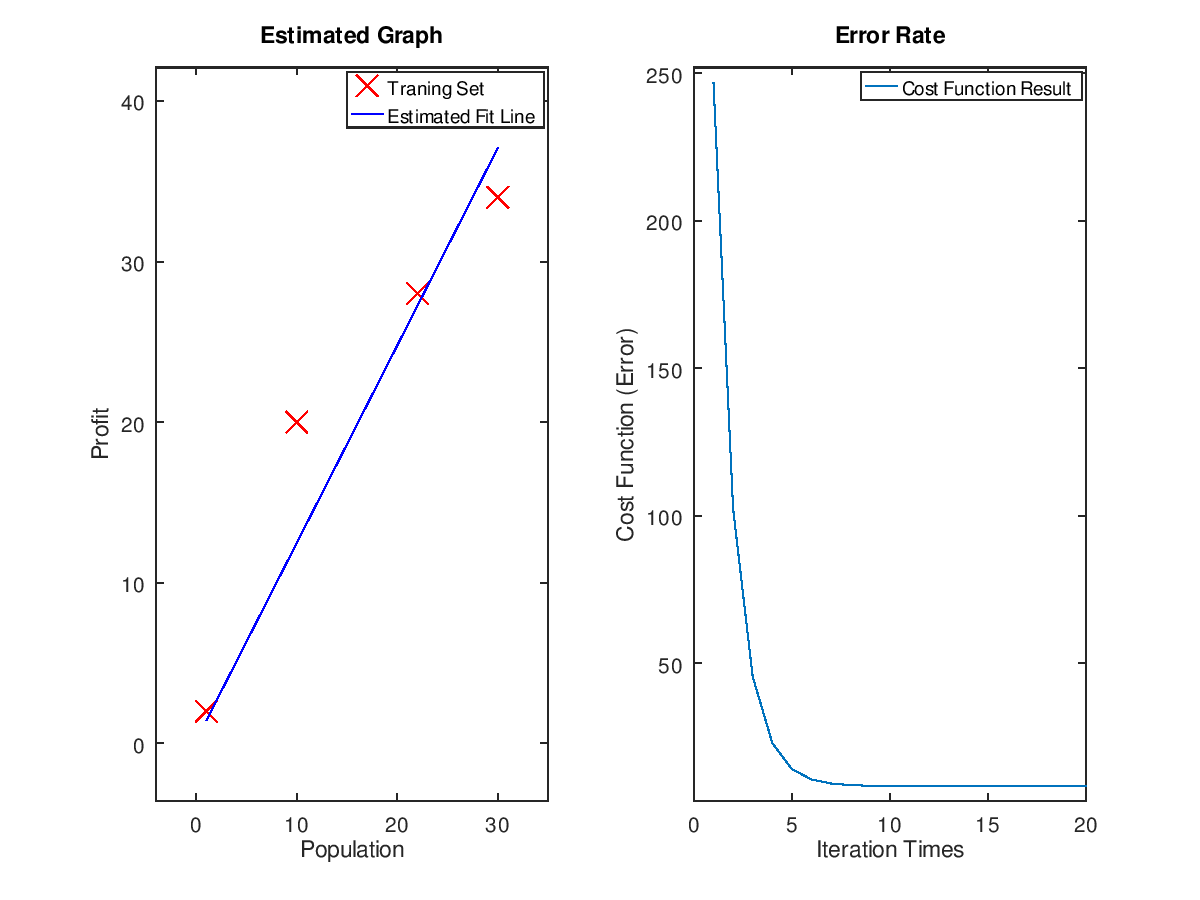
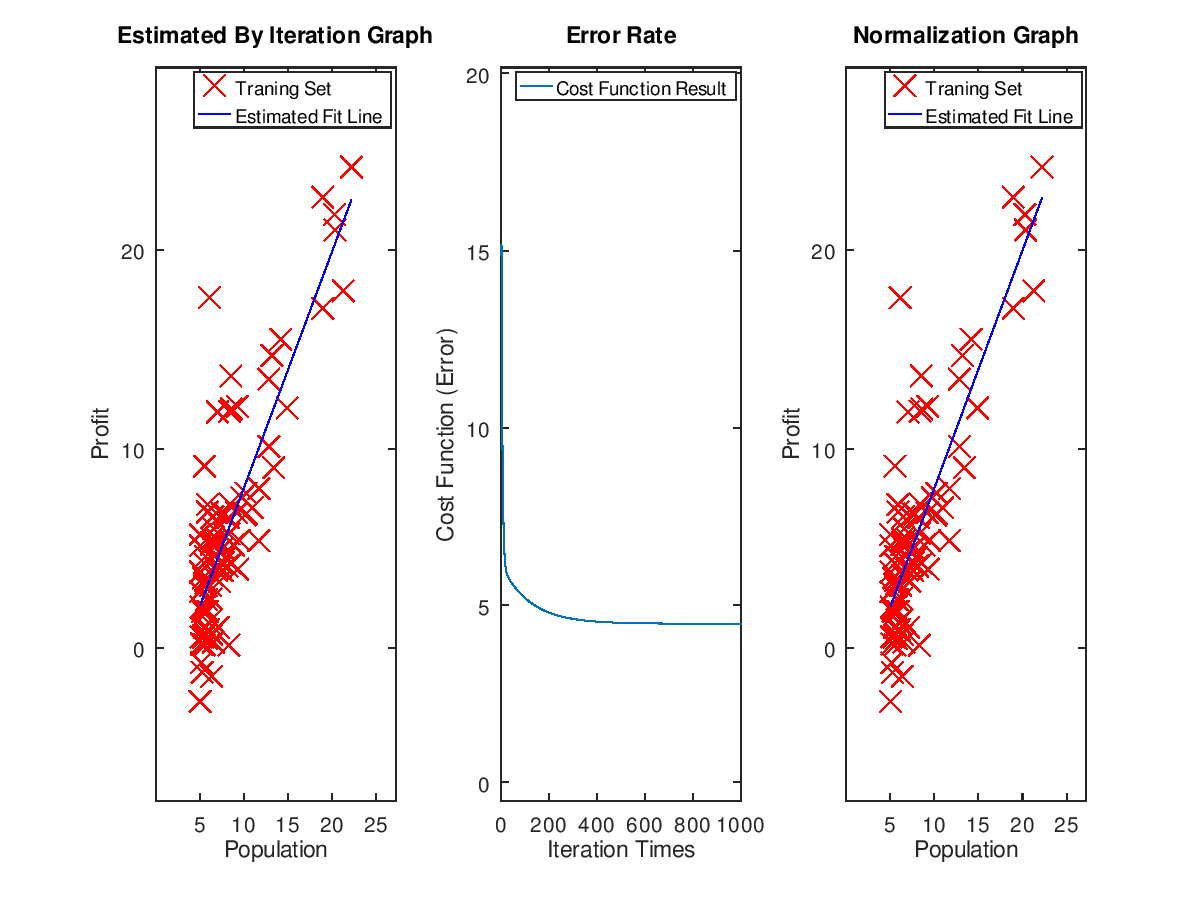
normalization

diff --git a/supervised machine learning/Gradient Descent -Octave/plotingProcesses.m b/supervised machine learning/Gradient Descent -Octave/plotingProcesses.m
@@ -1,7 +1,9 @@
-function plotingProcesses(iteration, cost, X, y, estimatedXs)
-  subplot(1, 2, 2)
+function plotingProcesses(iteration, cost, X, y, estimatedXs, estimatedNorm)
+  subplot(1, 3, 3)
+  plotEstimatedGraph(X, y, estimatedNorm, 'Normalization Graph')
+  subplot(1, 3, 2)
   plotCostGraph(cost, iteration)  
-  subplot(1, 2, 1)
-  plotEstimatedGraph(X, y, estimatedXs)
+  subplot(1, 3, 1)
+  plotEstimatedGraph(X, y, estimatedXs, 'Estimated By Iteration Graph')
   print -dpng 'CostFunctionPlot.png'
 endfunction

diff --git a/supervised machine learning/Gradient Descent -Octave/plotEstimatedGraph.m b/supervised machine learning/Gradient Descent -Octave/plotEstimatedGraph.m
@@ -1,11 +1,11 @@
-function plotEstimatedGraph(x, y, estimatedX)
+function plotEstimatedGraph(x, y, estimatedX, t)
   xAxis = [min(x)-5 max(x)+5]
   yAxis = [min([y;estimatedX])-5 max([y;estimatedX])+5]
   plot(x,y,'rx', 'MarkerSize', 10)
   hold on
   plot(x, estimatedX, 'b')
   axis([xAxis yAxis])
-  title('Estimated Graph')
+  title(t)
   xlabel('Population')
   ylabel('Profit')
   legend('Traning Set', 'Estimated Fit Line')

diff --git a/supervised machine learning/Gradient Descent -Octave/main.m b/supervised machine learning/Gradient Descent -Octave/main.m
@@ -10,6 +10,7 @@ function main(features, y, theta, traningRate, iteration)
     cost = [cost ;costFunction(estimatedX, y)]
   endfor
   
-  plotingProcesses(iteration, cost, features, y, estimatedX)
+  estimatedNormalization = normalization(features, y)
+  plotingProcesses(iteration, cost, features, y, estimatedX, estimatedNormalization)
   
 endfunction

diff --git a/supervised machine learning/Gradient Descent -Octave/normalization.m b/supervised machine learning/Gradient Descent -Octave/normalization.m
@@ -1,0 +1,6 @@
+function estimatedX = normalizaion(features, y)
+  [r c] = size(features)
+  X = [ones(r,1) features]
+  theta = pinv(X'*X) * X' *y
+  estimatedX = hypothese(theta, features)
+endfunction
